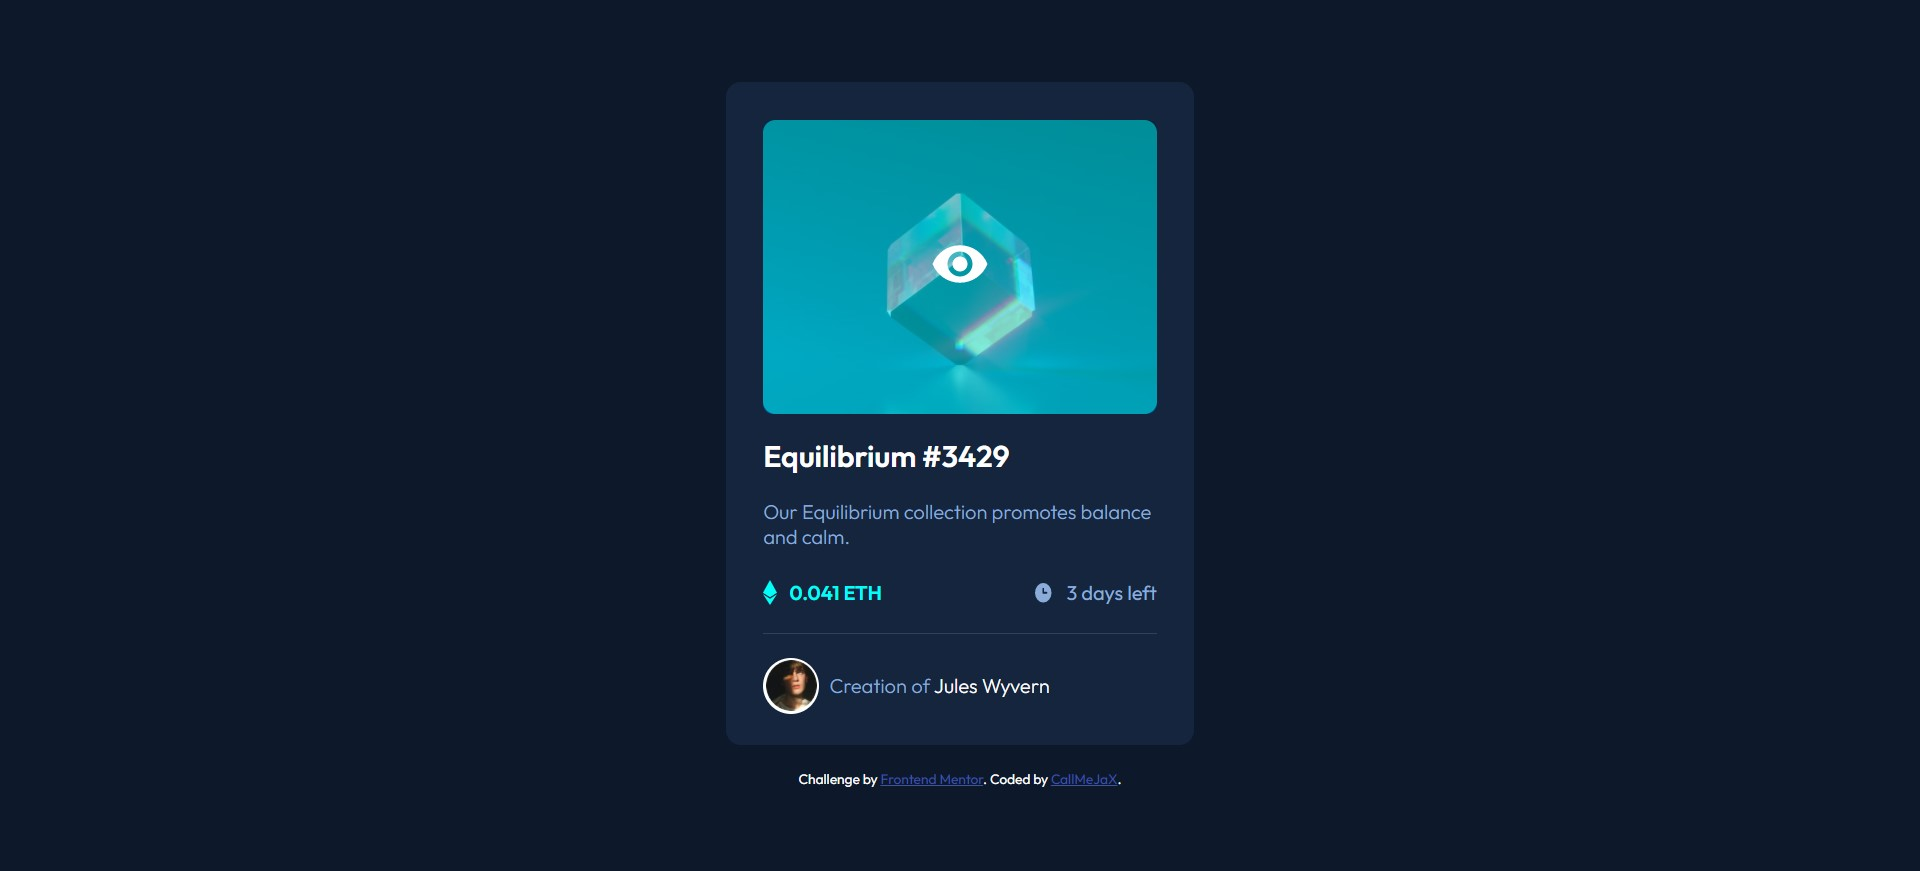
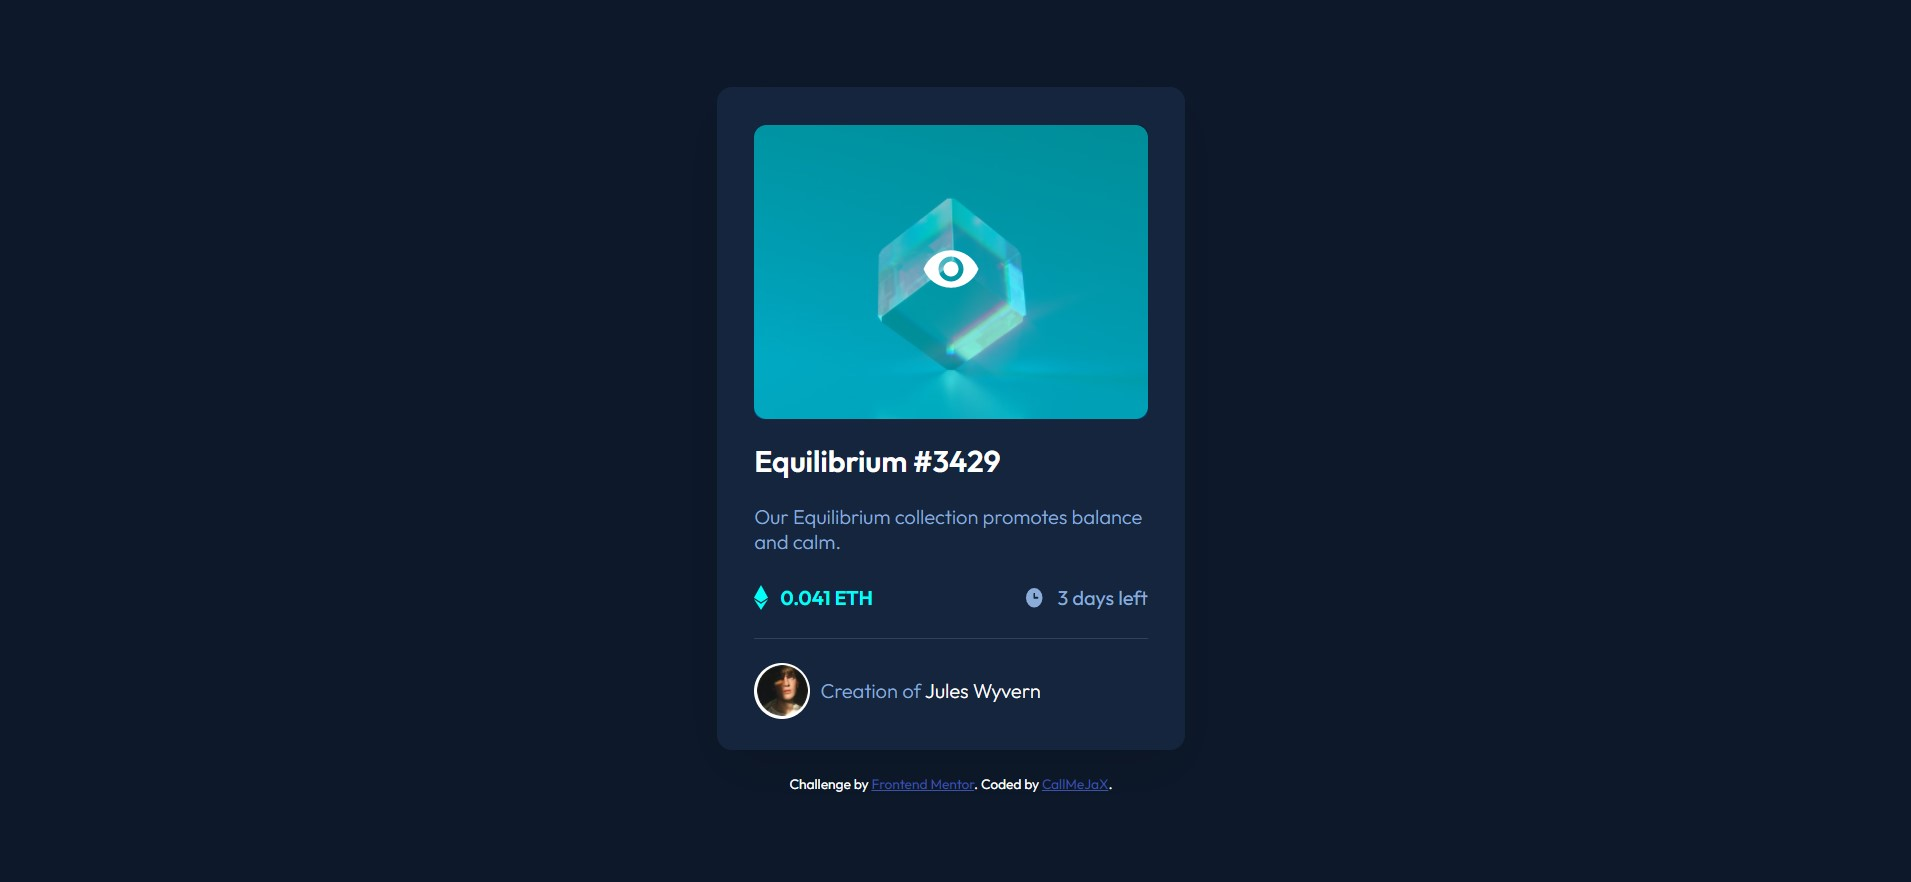
Add all my files

diff --git a/style.css b/style.css
@@ -54,6 +54,7 @@ p{
   border-radius: 12px;
   display: flex;
   flex-direction: column;
+  box-shadow: 0 1rem 3rem rgba(0,0,0,.175);
 }
 
 .card-img{

diff --git a/README.md b/README.md
@@ -12,7 +12,7 @@ This is a solution to the [NFT preview card component challenge on Frontend Ment
 ### Links
 
 - Solution URL: [GitHub](https://github.com/C411M3J4X/nft-preview-card-component)
-
+- Live Site URL: [Netlify]()
 ## Author
 
 - GitHub - [C411M3J4X](https://github.com/C411M3J4X)
